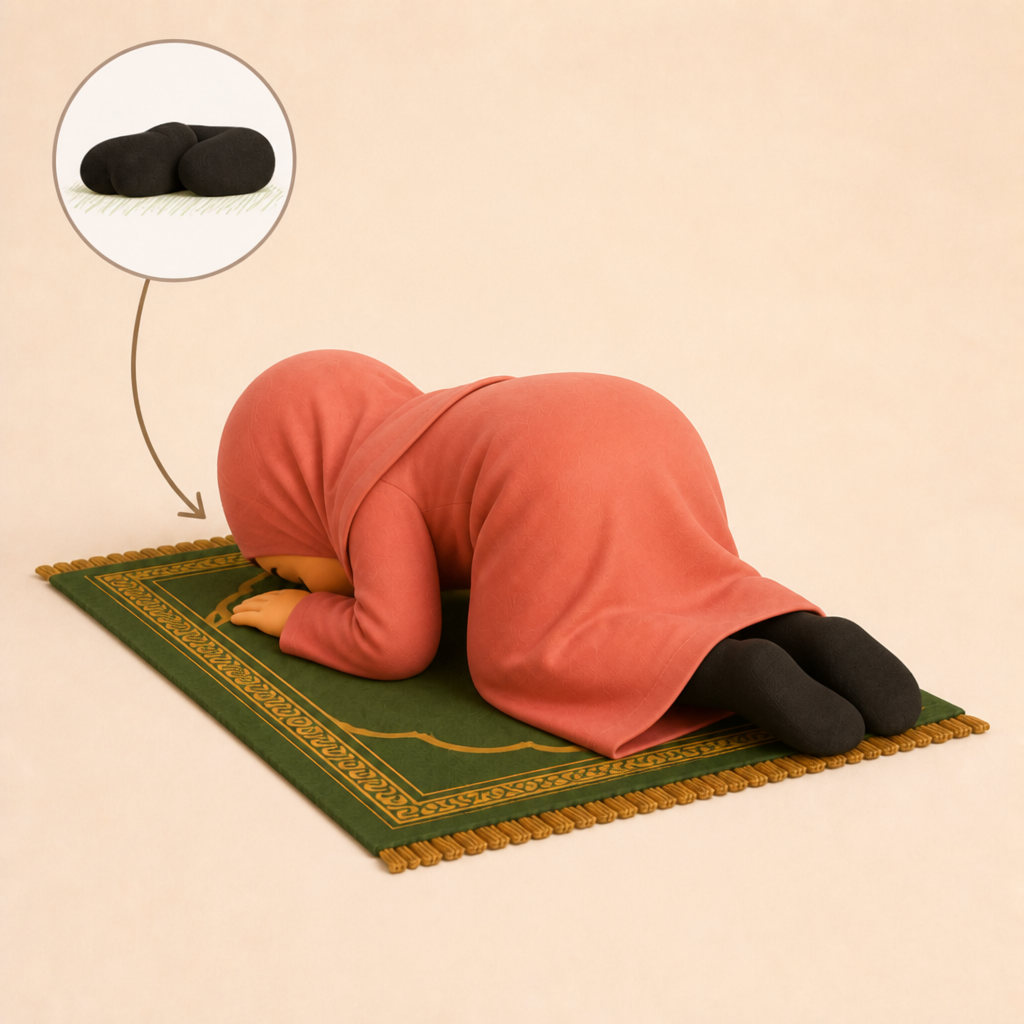
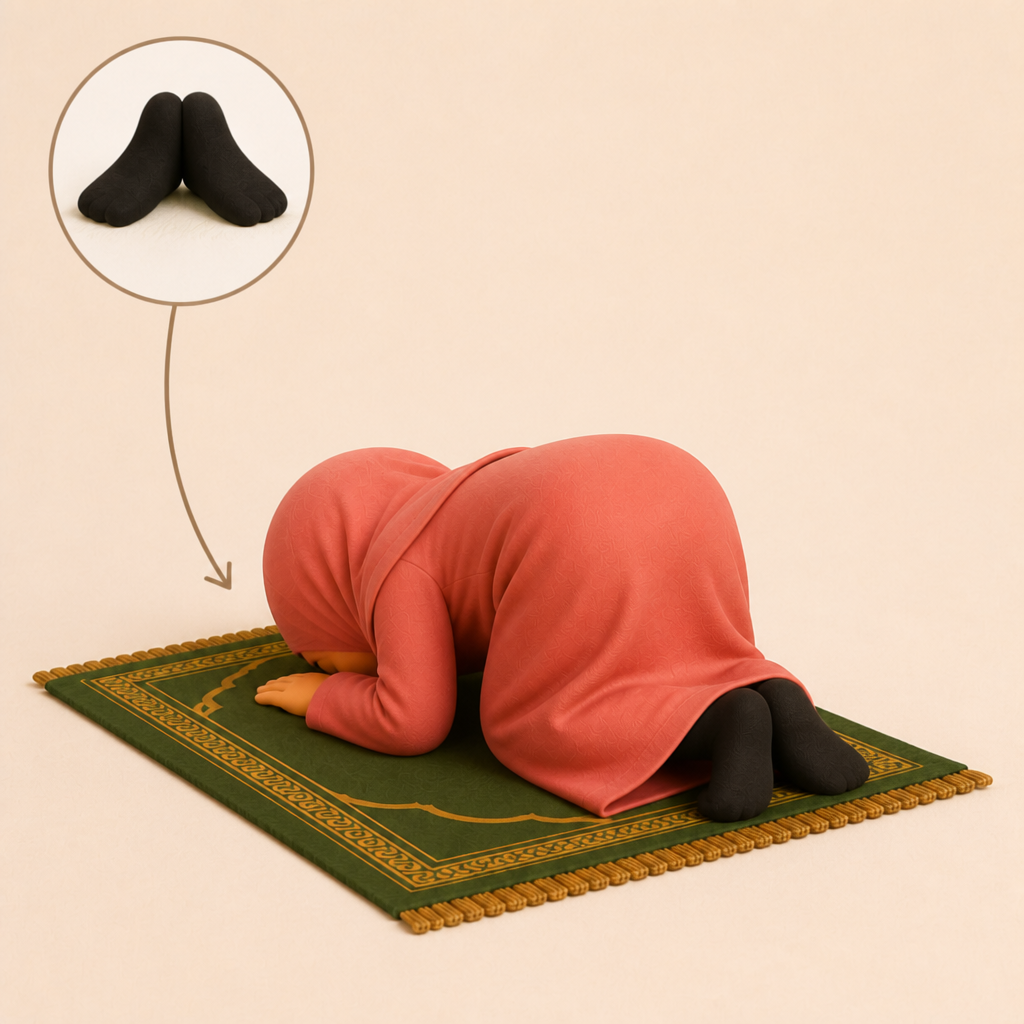
Kızlarda secde ayaklarını ters V yap: topuklar bitişik, parmaklar dışa açık.

Changed region(s): [[0.0312, 0.0625, 0.9688, 0.9375], [0.0938, 0.0312, 0.25, 0.0625], [0.0625, 0.0625, 0.0938, 0.0938]]

diff --git a/lib/features/prayer/prayer_visual_catalog.dart b/lib/features/prayer/prayer_visual_catalog.dart
@@ -282,7 +282,7 @@ abstract final class PrayerVisualCatalog {
       image: 'assets/images/prayer/step09_secde1.png',
       imageGirl: 'assets/images/prayer/step09_secde_girl.png',
       girlNote:
-          'Kızlar secdede ellerini yüze yakın koyar, kollarını vücuda yapıştırır; ayaklarının üstünü yere koyup sağa yatırır.',
+          'Kızlar secdede ellerini yüze yakın koyar, kollarını vücuda yapıştırır; ayaklarının üstünü yere koyar, topuklar bitişik parmaklar dışa açık.',
       kind: PrayerKind.farz,
       jsonStepId: 'sujud',
       duaId: 'sujud',
@@ -304,7 +304,7 @@ abstract final class PrayerVisualCatalog {
       image: 'assets/images/prayer/step10_secde2.png',
       imageGirl: 'assets/images/prayer/step09_secde_girl.png',
       girlNote:
-          'Kızlar secdede ellerini yüze yakın koyar, kollarını vücuda yapıştırır; ayaklarının üstünü yere koyup sağa yatırır.',
+          'Kızlar secdede ellerini yüze yakın koyar, kollarını vücuda yapıştırır; ayaklarının üstünü yere koyar, topuklar bitişik parmaklar dışa açık.',
       kind: PrayerKind.farz,
       jsonStepId: 'sujud',
       duaId: 'sujud',
@@ -433,7 +433,7 @@ abstract final class PrayerVisualCatalog {
       image: 'assets/images/prayer/step09_secde1.png',
       imageGirl: 'assets/images/prayer/step09_secde_girl.png',
       girlNote:
-          'Kızlar secdede ellerini yüze yakın koyar, kollarını vücuda yapıştırır; ayaklarının üstünü yere koyup sağa yatırır.',
+          'Kızlar secdede ellerini yüze yakın koyar, kollarını vücuda yapıştırır; ayaklarının üstünü yere koyar, topuklar bitişik parmaklar dışa açık.',
       kind: PrayerKind.farz,
       jsonStepId: 'sujud',
       duaId: 'sujud',
@@ -457,7 +457,7 @@ abstract final class PrayerVisualCatalog {
       image: 'assets/images/prayer/step10_secde2.png',
       imageGirl: 'assets/images/prayer/step09_secde_girl.png',
       girlNote:
-          'Kızlar secdede ellerini yüze yakın koyar, kollarını vücuda yapıştırır; ayaklarının üstünü yere koyup sağa yatırır.',
+          'Kızlar secdede ellerini yüze yakın koyar, kollarını vücuda yapıştırır; ayaklarının üstünü yere koyar, topuklar bitişik parmaklar dışa açık.',
       kind: PrayerKind.farz,
       jsonStepId: 'sujud',
       duaId: 'sujud',
